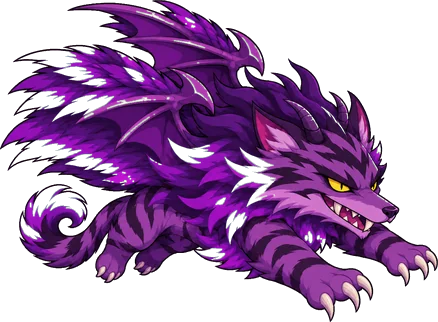
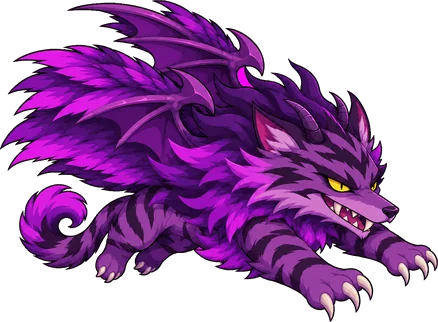
idle-td: fix 窮奇 fur keyed out (only remove border-connected magenta)
Claude-Session: https://claude.ai/code/session_01HtN5hnYkiAZtF2Twp2gANj

diff --git a/idle-td/tools/pack8.py b/idle-td/tools/pack8.py
@@ -8,6 +8,25 @@ src = open(os.path.join(os.path.dirname(__file__), 'pack.py'), encoding='utf-8')
 exec(src[:src.index('files = set(')])
 mp = os.path.join(OUT, 'manifest.json')
 MAN.update(json.load(open(mp)))
+# 窮奇身上有亮洋紅色的毛，整張照顏色去背會把毛挖空 → 只去掉「跟圖片外框連在一起」的洋紅背景
+def keyed(n, loose=False):
+    a = load(n)
+    r, g, b = a[..., 0], a[..., 1], a[..., 2]
+    mg = np.minimum(r, b) - g
+    hard0 = (np.minimum(r, b) >= 200) & (g <= 90) & (np.abs(r - b) < 60)
+    hard = np.zeros_like(hard0); hard[0, :] = hard0[0, :]; hard[-1, :] = hard0[-1, :]; hard[:, 0] = hard0[:, 0]; hard[:, -1] = hard0[:, -1]
+    while True:
+        g2 = hard.copy(); g2[1:] |= hard[:-1]; g2[:-1] |= hard[1:]; g2[:, 1:] |= hard[:, :-1]; g2[:, :-1] |= hard[:, 1:]; g2 &= hard0
+        if (g2 == hard).all(): break
+        hard = g2
+    alpha = np.where(hard, 0.0, 1.0)
+    edge = dil(hard, 2) & ~hard & (mg > 50) & (np.abs(r - b) < 80)
+    t = np.clip((mg - 50) / 160.0, 0, 1)
+    alpha = np.where(edge, 1 - t, alpha)
+    rgb = a.astype(np.float32); M = np.array([255, 0, 255], np.float32); al = np.maximum(alpha, 1e-3)[..., None]
+    un = (rgb - (1 - alpha[..., None]) * M) / al
+    rgb = np.where(edge[..., None], np.clip(un, 0, 255), rgb)
+    return Image.fromarray(np.dstack([rgb, alpha * 255]).astype(np.uint8), 'RGBA')
 sc = S * X2
 for c in ('taotie', 'taowu', 'hundun', 'qiongqi'):
     fly = c == 'qiongqi'
